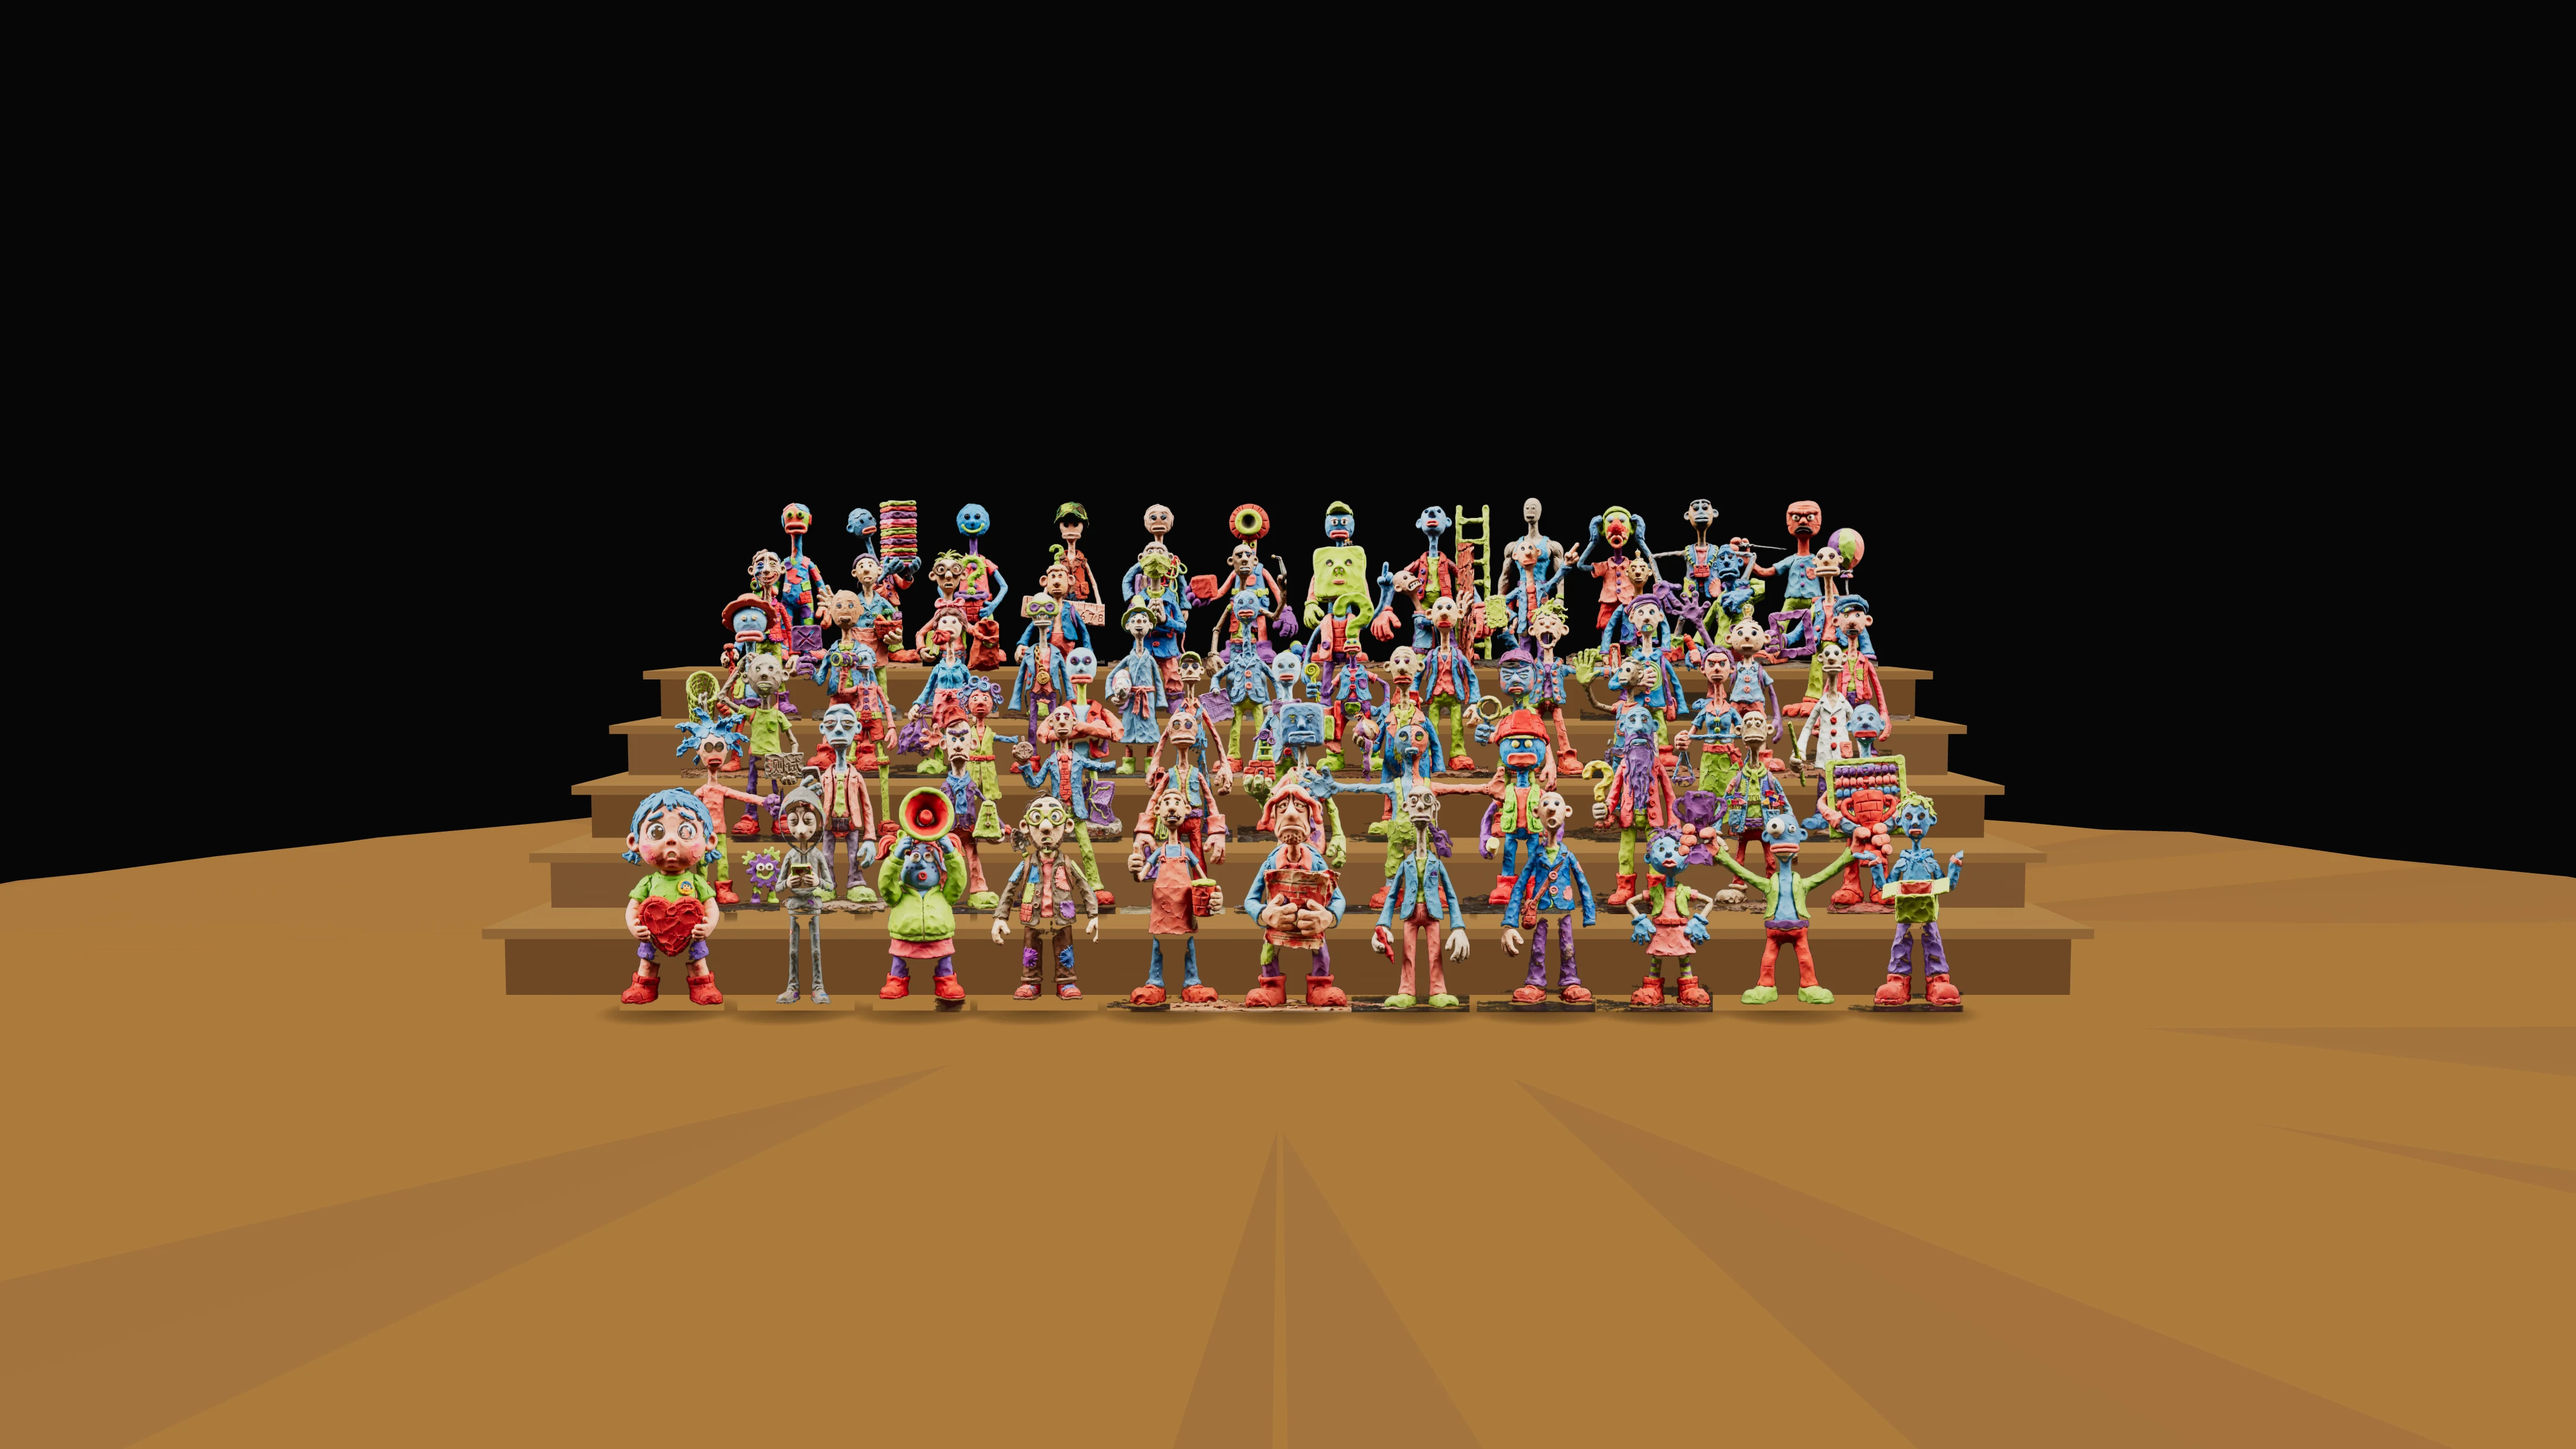
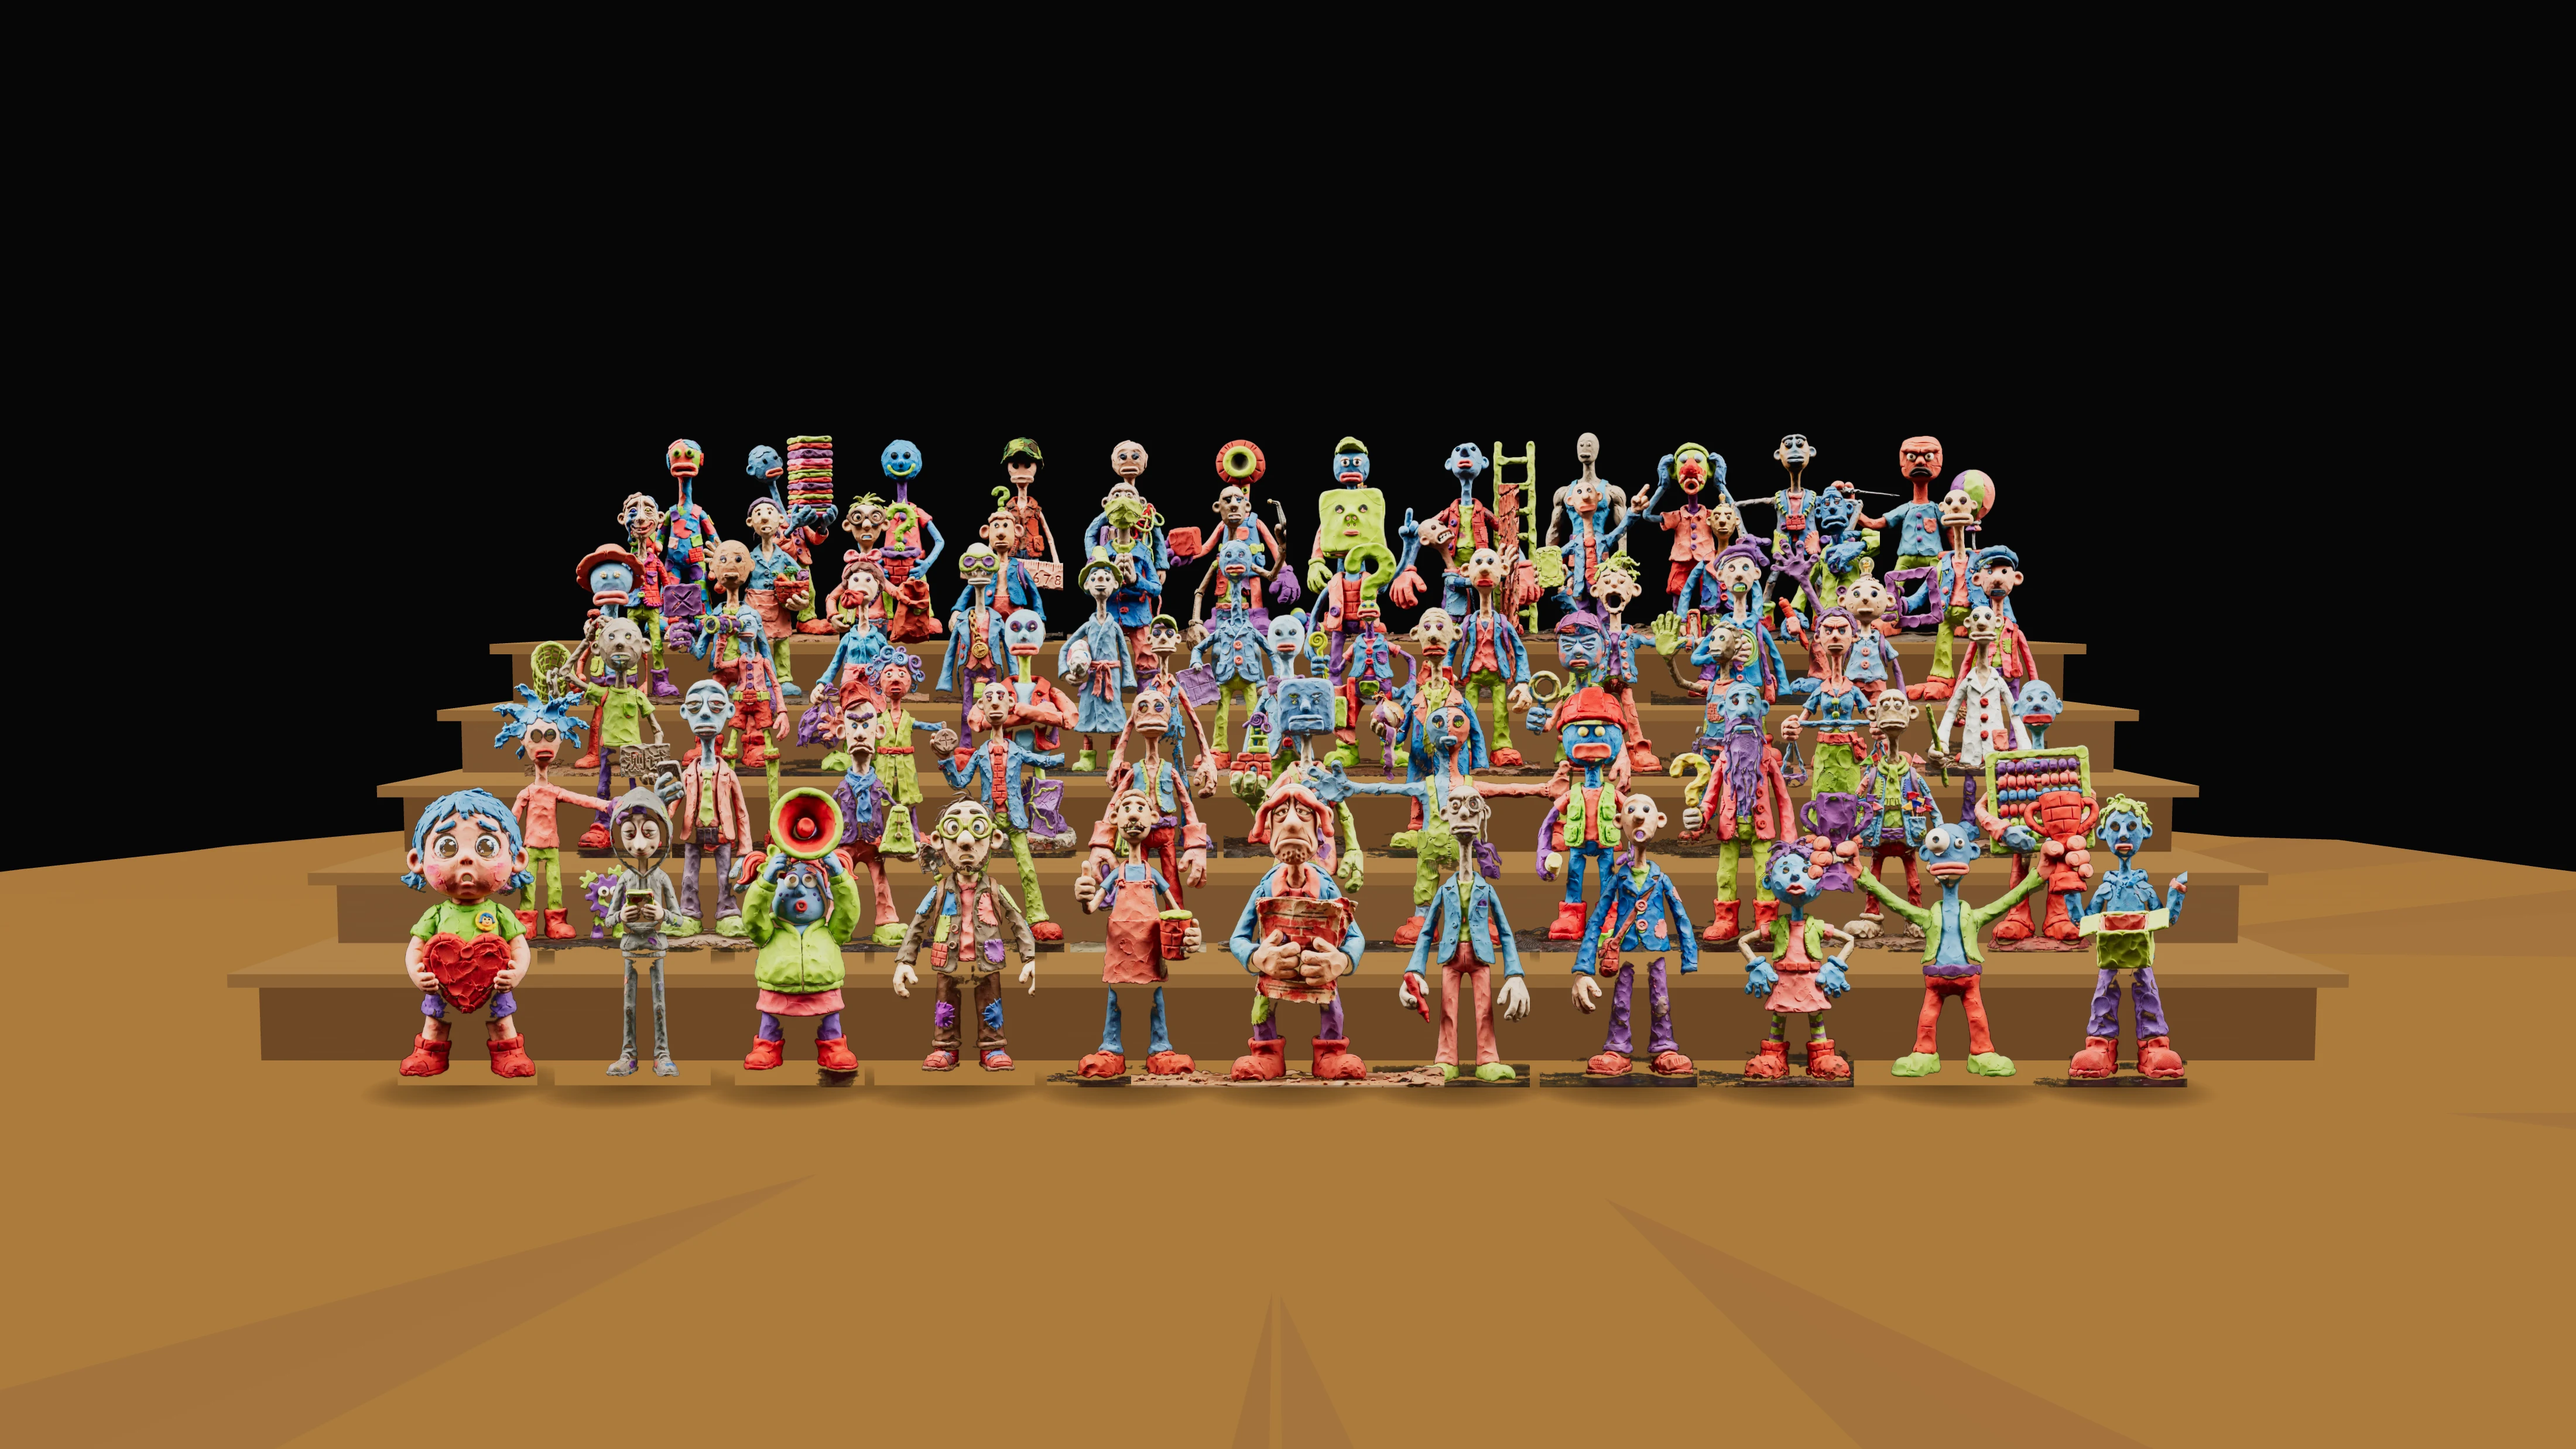
fix(72): 毕业照镜头拉近——每排角色面部清晰可辨

diff --git a/72/src/photo.html b/72/src/photo.html
@@ -28,8 +28,8 @@ scene.background = new THREE.Color(0x060607);
 scene.fog = new THREE.FogExp2(0x060607, 0.0016);
 
 const camera = new THREE.PerspectiveCamera(40, innerWidth/innerHeight, 0.1, 500);
-camera.position.set(0, 5.4, 26.5);
-camera.lookAt(0, 3.6, -3);
+camera.position.set(0, 4.8, 20);
+camera.lookAt(0, 3.4, -3);
 
 scene.add(new THREE.HemisphereLight(0xfff2dd, 0x3a2c22, 1.05));
 const sun = new THREE.DirectionalLight(0xffe6b8, 1.8); sun.position.set(35, 60, 45); scene.add(sun);
